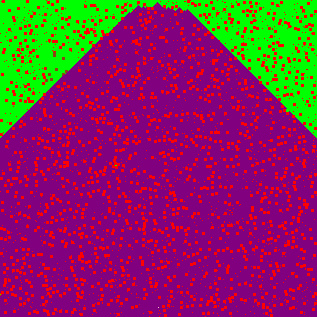
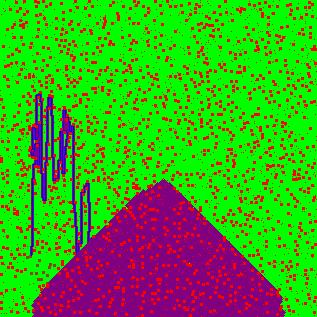
Maps and Algorithm
Updated maps when "b" or "d" are pressed in map menu.
Slightly changed DFS algorithm which should be correct now (I think).

diff --git a/main.py b/main.py
@@ -73,10 +73,12 @@ def input(key):
         print("BFS Algorithm")
         doBFS = True
         path = game_screen.BFS()
+        map.texture = "minimapAlgorithmPathBFS.png"
     elif key == 'd' and mPressed:
         print("DFS Algorithm")
         doDFS = True
         path = game_screen.DFS()
+        map.texture = "minimapAlgorithmPathDFS.png"
     elif key == 'r':
         if rectangle_entity:
             destroy(rectangle_entity)

diff --git a/algorithms.py b/algorithms.py
@@ -114,7 +114,7 @@ def DFS(image, draw, tile_map):
 
     while stack:
         current = stack.pop()
-        if current == goal:
+        if current in goal:
             # Reconstruct the path
             path = []
             while current != start:
